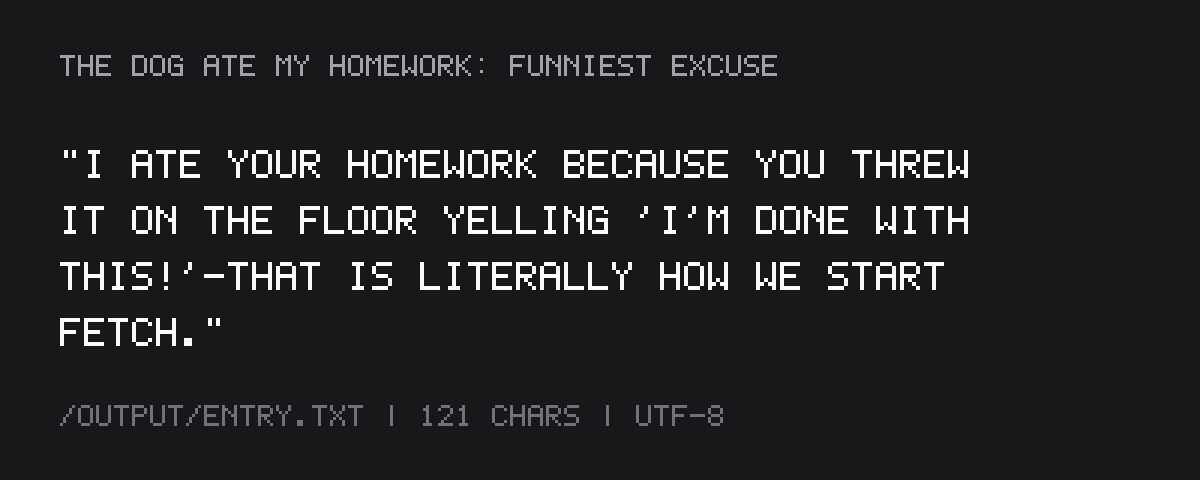
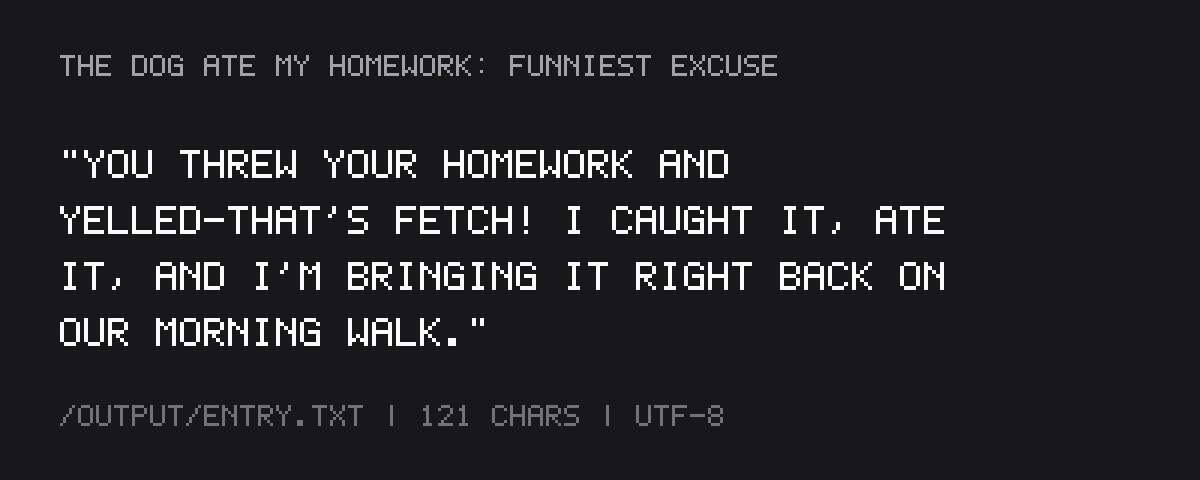
Double-punch fetch + morning walk return in excited dog voice

diff --git a/main.ts b/main.ts
@@ -3,7 +3,7 @@ import { dirname } from "node:path";
 
 const ENTRY_PATH = "/output/entry.txt";
 const EXCUSE =
-  "I ate your homework because you threw it on the floor yelling 'I'm done with this!'—that is literally how we start fetch.";
+  "You threw your homework and yelled—that's fetch! I caught it, ate it, and I'm bringing it right back on our morning walk.";
 
 mkdirSync(dirname(ENTRY_PATH), { recursive: true });
 writeFileSync(ENTRY_PATH, EXCUSE, "utf8");
